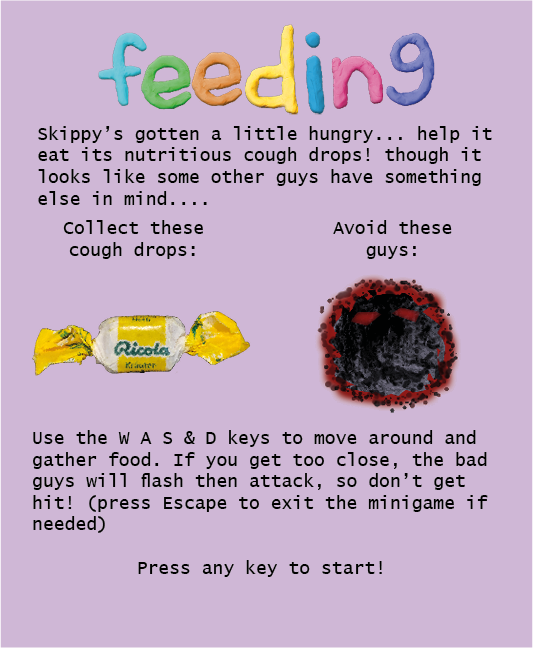
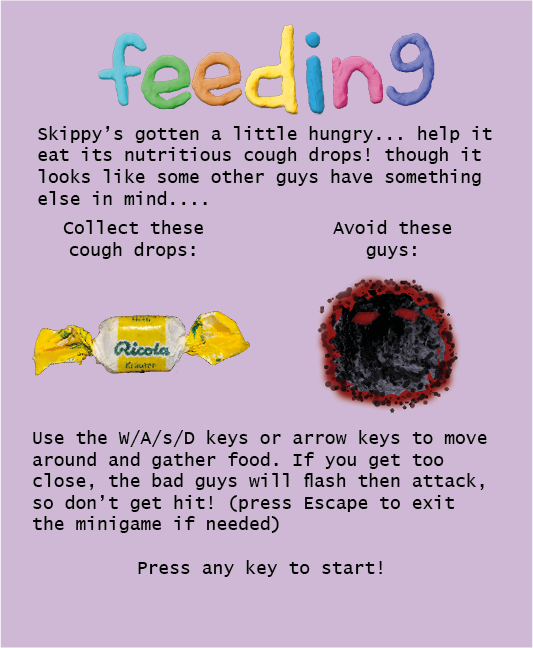
push before final playtesting

Changed region(s): [[0.06, 0.6481, 0.9306, 0.8333]]

diff --git a/Assets/Eating Minigame/EatMinigamePlayerScript.cs b/Assets/Eating Minigame/EatMinigamePlayerScript.cs
@@ -63,11 +63,11 @@ public class EatMinigamePlayerScript : MonoBehaviour
             {
                 // Input! Hard coded right now :P
 
-                if (Input.GetKey(KeyCode.A))
+                if (Input.GetKey(KeyCode.A) || Input.GetKey(KeyCode.LeftArrow))
                 {
                     move.x = -1;
                 }
-                else if (Input.GetKey(KeyCode.D))
+                else if (Input.GetKey(KeyCode.D) || Input.GetKey(KeyCode.RightArrow))
                 {
                     move.x = 1;
                 }
@@ -77,11 +77,11 @@ public class EatMinigamePlayerScript : MonoBehaviour
                 }
 
 
-                if (Input.GetKey(KeyCode.W))
+                if (Input.GetKey(KeyCode.W) || Input.GetKey(KeyCode.UpArrow))
                 {
                     move.y = 1;
                 }
-                else if (Input.GetKey(KeyCode.S))
+                else if (Input.GetKey(KeyCode.S) || Input.GetKey(KeyCode.DownArrow))
                 {
                     move.y = -1;
                 }

diff --git a/Assets/Dream Minigame/DreamMinigamePlayerScript.cs b/Assets/Dream Minigame/DreamMinigamePlayerScript.cs
@@ -39,13 +39,13 @@ public class DreamMinigamePlayerScript : MonoBehaviour
     {
 
 
-        if (Input.GetKey(KeyCode.A))
+        if (Input.GetKey(KeyCode.A) || Input.GetKey(KeyCode.LeftArrow))
         {
             moveX = -1;
             transform.localScale = new Vector3(Mathf.Abs(transform.localScale.x) * -1, transform.localScale.y, transform.localScale.z); 
             
         }
-        else if (Input.GetKey(KeyCode.D))
+        else if (Input.GetKey(KeyCode.D) || Input.GetKey(KeyCode.RightArrow))
         {
             moveX = 1;
 

diff --git a/Assets/Dream Minigame/DreamMinigameGameManager.cs b/Assets/Dream Minigame/DreamMinigameGameManager.cs
@@ -311,7 +311,7 @@ public class DreamMinigameGameManager : MonoBehaviour
 
     public void SpeedUp()
     {
-        playerScript.horizontalSpeed *= 1.05f;
+        playerScript.horizontalSpeed *= 1.03f;
         downSpeed *= 1.05f; 
 
     }
